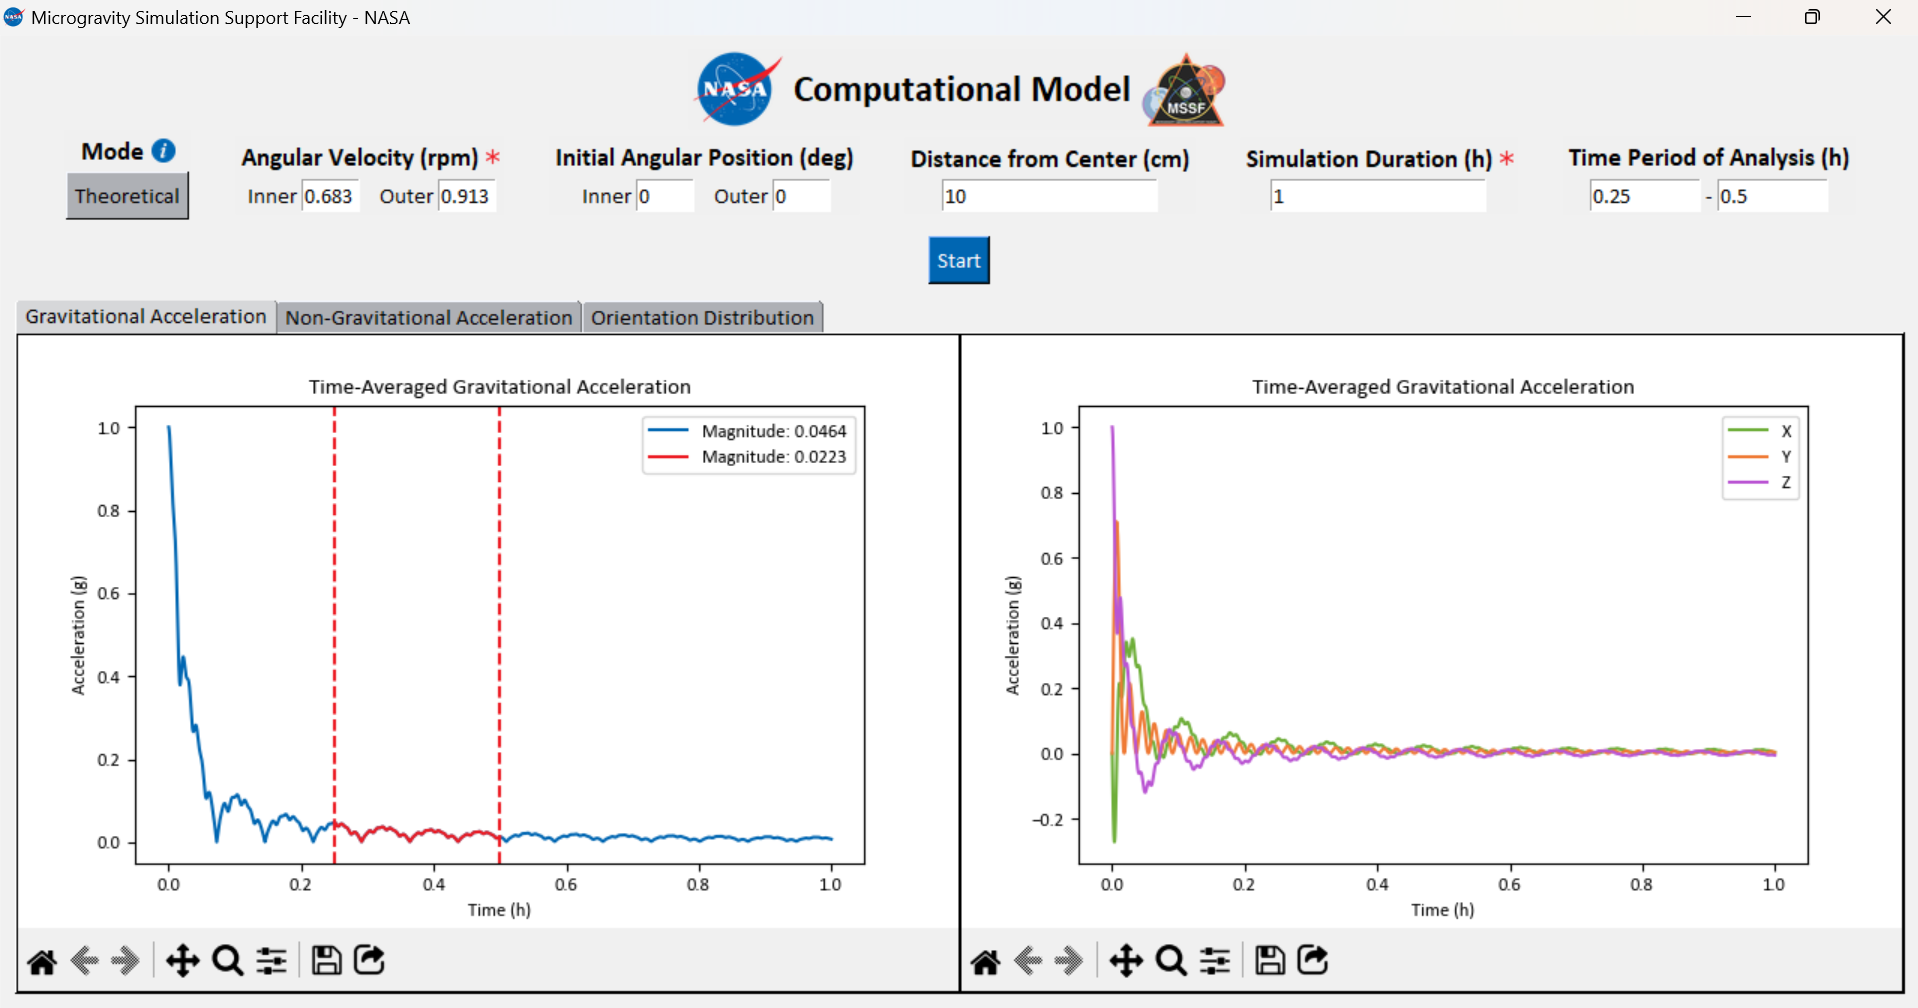
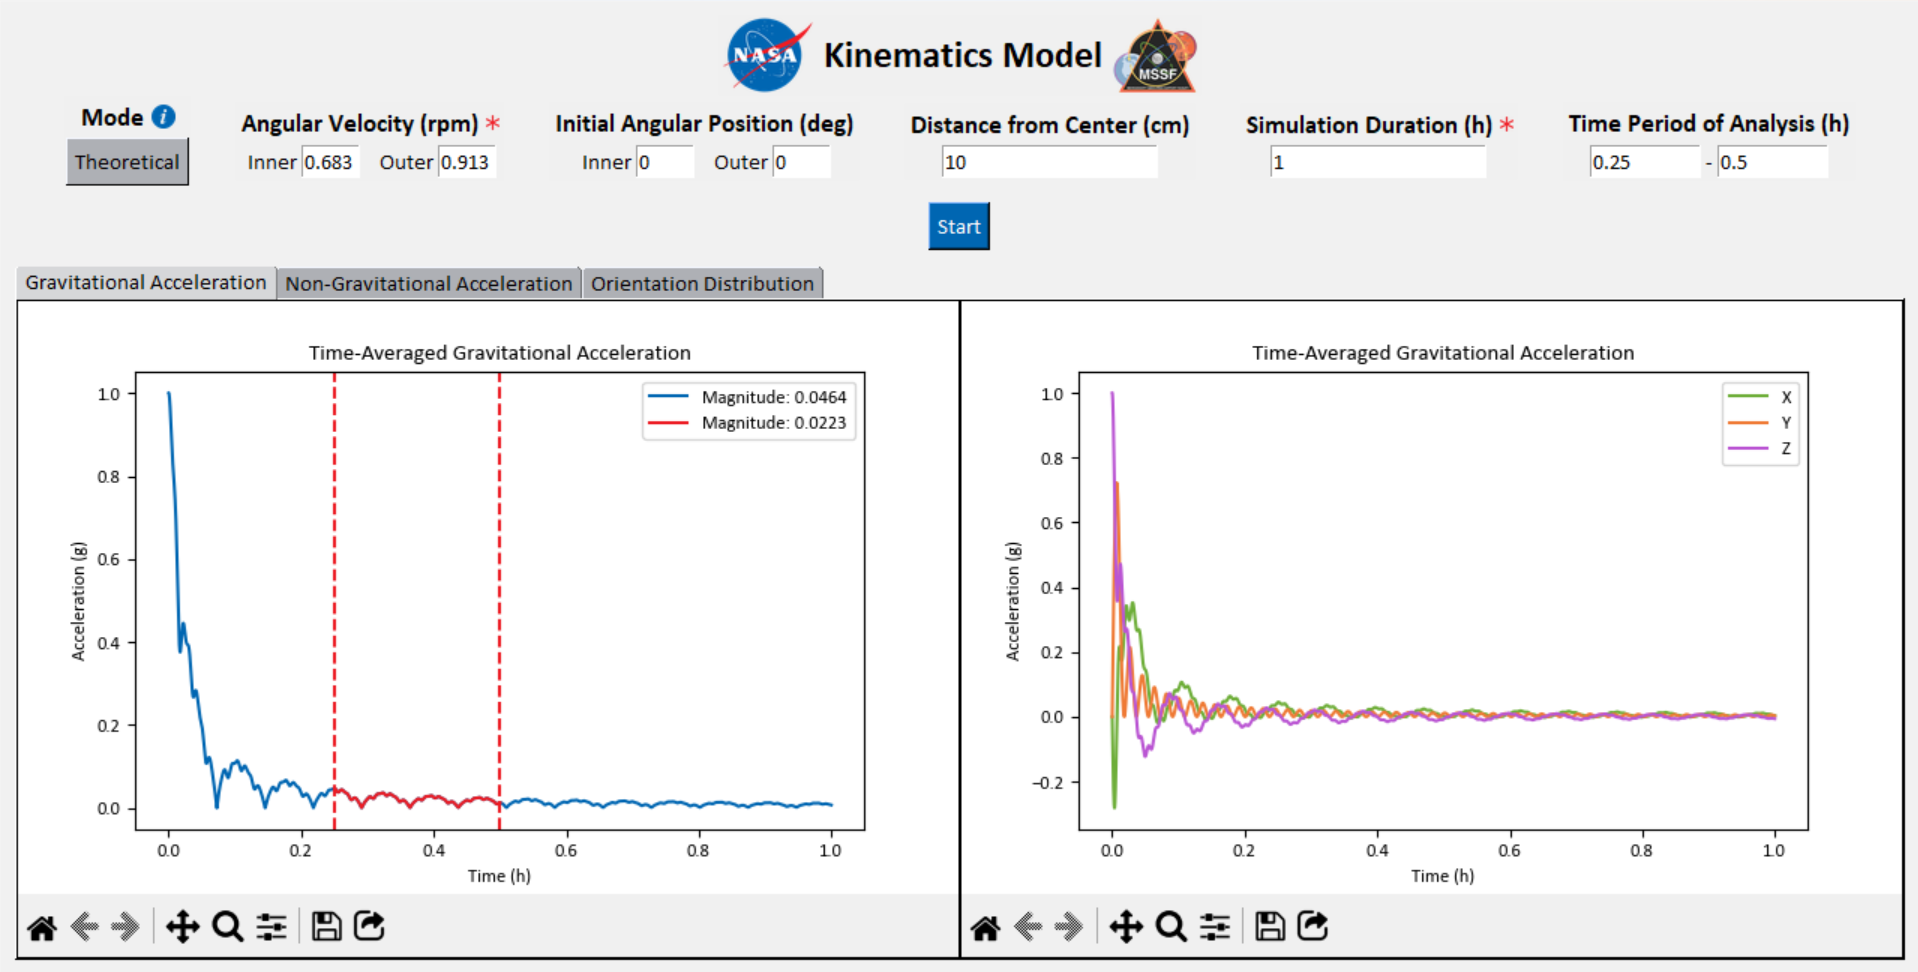
updated naming

diff --git a/gui.py b/gui.py
@@ -151,7 +151,7 @@ class GUI:
         nasa_label = tk.Label(title_frame, image=self.nasa_logo, cursor="hand2")
         nasa_label.pack(side=tk.LEFT, padx=1)
         nasa_label.bind("<Button-1>", lambda e: self.open_url("https://www.nasa.gov/"))
-        title_label = tk.Label(title_frame, text="Computational Model", font=font_style)
+        title_label = tk.Label(title_frame, text="Kinematics Model", font=font_style)
         title_label.pack(side=tk.LEFT, padx=1)
         mssf_label = tk.Label(title_frame, image=self.mssf_logo, cursor="hand2")
         mssf_label.pack(side=tk.LEFT, padx=1)

diff --git a/README.md b/README.md
@@ -11,7 +11,11 @@
   <img src="images/example.png" alt="example" style="max-width: 100%; height: auto;">
 </div>
 
-I developed this GUI application to enable space biology investigators to validate that their ground-based simulators achieve microgravity, partial gravity, and hypergravity.
+The Microgravity Simulation Support Facility (MSSF) at the National Aeronautics and Space Administration
+(NASA) John F. Kennedy Space Center (KSC) contains an array of devices that negate the directional
+influence of the “g” vector to simulate micro- and partial-gravity. The MSSF has developed a graphical user
+interface (GUI) application for visualizing the accelerations felt by a sample when rotating in these devices to
+allow scientists to evaluate the quality of their simulations.
 
 ## Built With
 
@@ -45,4 +49,4 @@ I developed this GUI application to enable space biology investigators to valida
 
 1. Kim, Y.J., Jeong, A.J., Kim, M. _et al_. Time-averaged simulated microgravity (taSMG) inhibits proliferation of lymphoma cells, L-540 and HDLM-2, using a 3D clinostat. _BioMed Eng OnLine_ **16**, 48 (2017). https://doi.org/10.1186/s12938-017-0337-8
 
-2. Clary JL, France CS, Lind K, Shi R, Alexander JS, Richards JT, Scott RS, Wang J, Lu X-H, and Harrison L (2022), Development of an inexpensive 3D clinostat and comparison with other microgravity simulators using Mycobacterium marinum. _Front. Space Technol._ 3:1032610. [doi: 10.3389/frspt.2022.1032610](https://doi.org/10.3389/frspt.2022.1032610)
+2. Clary JL, France CS, Lind K, Shi R, Alexander JS, Richards JT, Scott RS, Wang J, Lu X-H and Harrison L (2022) Development of an inexpensive 3D clinostat and comparison with other microgravity simulators using _Mycobacterium marinum. Front. Space Technol_. 3:1032610. https://doi.org/10.3389/frspt.2022.1032610
